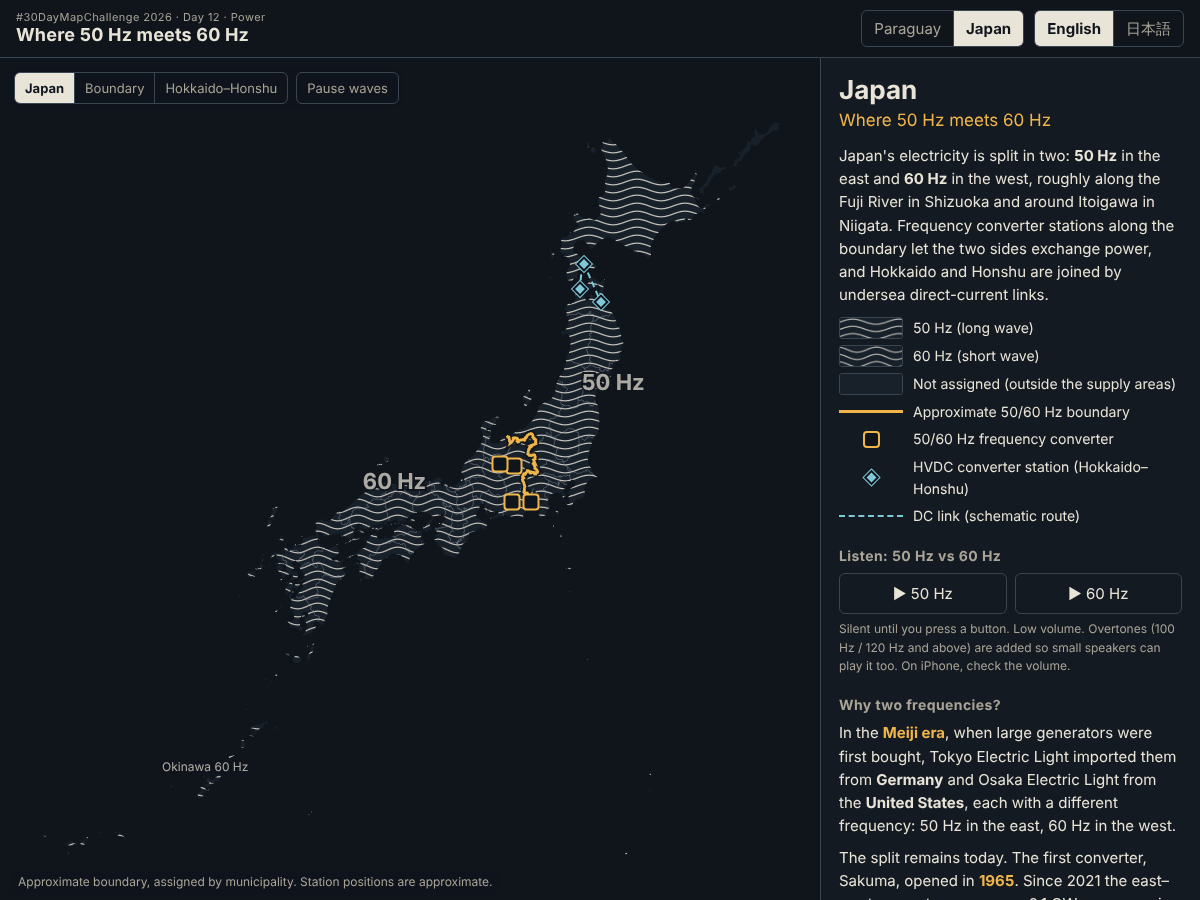
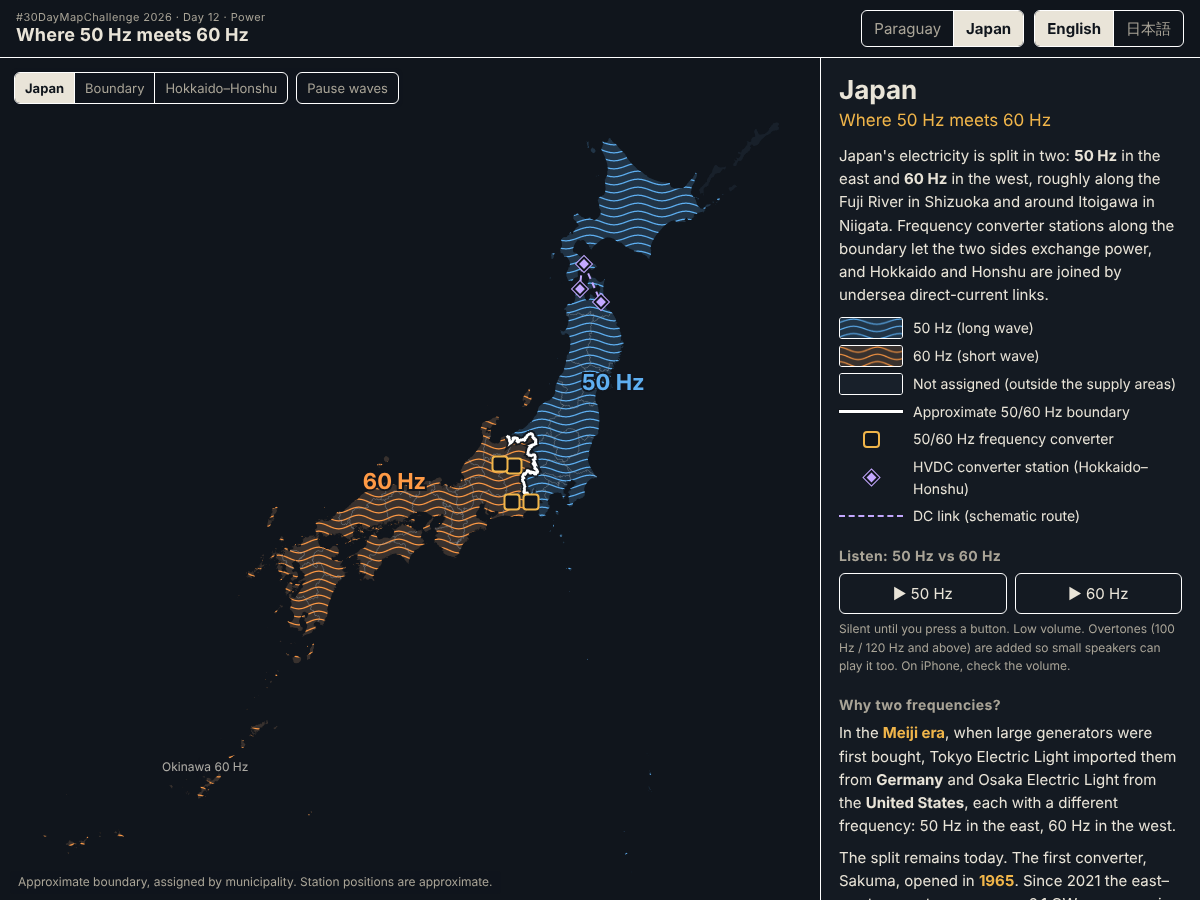
Colour 50 Hz and 60 Hz areas blue and orange

Changed region(s): [[0.2158, 0.1556, 0.5858, 0.7156], [0.6783, 0.3422, 0.7708, 0.4667]]

diff --git a/assets/app.js b/assets/app.js
@@ -22,9 +22,12 @@
     border: "rgba(160,170,182,0.55)",
     muni: "rgba(160,170,182,0.18)",
     accent: "#f0b54a",
-    dc: "#7fc8d8",
+    line: "#ffffff",
+    dc: "#c4a8ff",
+    wave: { 50: "#5fb0f2", 60: "#ff9a45" },
+    tint: { 50: "rgba(95,176,242,0.14)", 60: "rgba(255,154,69,0.14)" },
     water: "#0c1218",
-    river: "rgba(127,200,216,0.55)",
+    river: "rgba(180,192,204,0.45)",
     label: "rgba(233,228,216,0.72)",
     nodata: "rgba(160,170,182,0.35)"
   };
@@ -84,7 +87,7 @@
     c.height = Math.round(h * DPR);
     const g = c.getContext("2d");
     g.scale(c.width / lam, c.height / h);
-    g.strokeStyle = COLORS.ink;
+    g.strokeStyle = COLORS.wave[hz];
     g.lineWidth = WAVE.width;
     g.lineCap = "round";
     const y0 = WAVE.gap * offset + WAVE.gap / 2;
@@ -319,6 +322,10 @@
   }
 
   function paintGroup(g, s) {
+    if (g.hz !== "mixed") {
+      ctx.fillStyle = COLORS.tint[g.hz];
+      ctx.fill(g.path);
+    }
     if (g.hz === "mixed") {
       fillWaves(g.path, "50h", 50, s);
       fillWaves(g.path, "60h", 60, s);
@@ -330,7 +337,7 @@
     ctx.strokeStyle = "rgba(16,21,28,0.9)";
     ctx.lineWidth = 6;
     ctx.stroke(path);
-    ctx.strokeStyle = COLORS.accent;
+    ctx.strokeStyle = COLORS.line;
     ctx.lineWidth = 2.6;
     ctx.stroke(path);
   }
@@ -356,7 +363,7 @@
       label(name, c.at[0], c.at[1], { size: k >= 4 ? 14 : 12 });
       const p = projection(c.at);
       if (!p) return;
-      label(hz, ...projection.invert([p[0], p[1] + 14]), { size: 11, weight: 400 });
+      label(hz, ...projection.invert([p[0], p[1] + 14]), { size: 11, weight: 700, color: COLORS.wave[c.hz] || COLORS.label });
     });
   }
   function drawJapanLabels() {
@@ -549,6 +556,7 @@
       g.fillRect(0, 0, 64, 22);
       const hz = c.dataset.hz;
       if (!hz) return;
+      if (hz !== "mixed") { g.fillStyle = COLORS.tint[hz]; g.fillRect(0, 0, 64, 22); }
       const draw1 = (key, h) => {
         const tile = tiles[key];
         const phase = (s * WAVE.speed[h]) % WAVE.lambda[h];
@@ -565,16 +573,16 @@
     const cw = 28, ch = 34, gap = 4, labelH = 18, rowGap = 10;
     const w = 10 * cw + 9 * gap;
     const defs = `<defs>
-      <pattern id="pw50" width="${WAVE.lambda[50] / 2}" height="7" patternUnits="userSpaceOnUse">${wavePathSVG(WAVE.lambda[50] / 2, 7)}</pattern>
-      <pattern id="pw60" width="${WAVE.lambda[60] / 2}" height="7" patternUnits="userSpaceOnUse">${wavePathSVG(WAVE.lambda[60] / 2, 7)}</pattern>
+      <pattern id="pw50" width="${WAVE.lambda[50] / 2}" height="7" patternUnits="userSpaceOnUse">${wavePathSVG(WAVE.lambda[50] / 2, 7, COLORS.wave[50])}</pattern>
+      <pattern id="pw60" width="${WAVE.lambda[60] / 2}" height="7" patternUnits="userSpaceOnUse">${wavePathSVG(WAVE.lambda[60] / 2, 7, COLORS.wave[60])}</pattern>
     </defs>`;
     let body = "";
     [[50, u.left], [60, u.right]].forEach(([hz, txt], r) => {
       const y0 = r * (labelH + ch + rowGap);
-      body += `<text x="0" y="${y0 + 12}" font-size="12" fill="#e9e4d8">${esc(tx(txt))}</text>`;
+      body += `<text x="0" y="${y0 + 12}" font-size="12" font-weight="700" fill="${COLORS.wave[hz]}">${esc(tx(txt))}</text>`;
       for (let i = 0; i < 10; i++) {
         const x = i * (cw + gap);
-        body += `<rect x="${x}" y="${y0 + labelH}" width="${cw}" height="${ch}" rx="2" fill="#18202a" stroke="#5a6572"/>` +
+        body += `<rect x="${x}" y="${y0 + labelH}" width="${cw}" height="${ch}" rx="2" fill="${COLORS.tint[hz]}" stroke="${COLORS.wave[hz]}" stroke-opacity="0.6"/>` +
           `<rect x="${x + 1}" y="${y0 + labelH + 1}" width="${cw - 2}" height="${ch - 2}" fill="url(#pw${hz})"/>`;
       }
     });
@@ -582,13 +590,13 @@
     const svg = `<svg viewBox="0 0 ${w} ${h}" role="img" aria-label="${esc(tx(u.aria))}">${defs}${body}</svg>`;
     return `<h2>${esc(tx(u.title))}</h2><div class="units">${svg}<p class="cap">${tx(u.caption)}</p></div>`;
   }
-  function wavePathSVG(lam, h) {
+  function wavePathSVG(lam, h, color) {
     let d = "";
     for (let x = -1; x <= lam + 1; x += 0.5) {
       const y = h / 2 + 2 * Math.sin((2 * Math.PI * x) / lam);
       d += (d ? " L" : "M") + x.toFixed(2) + " " + y.toFixed(2);
     }
-    return `<path d="${d}" fill="none" stroke="#e9e4d8" stroke-width="0.9"/>`;
+    return `<path d="${d}" fill="none" stroke="${color}" stroke-width="1"/>`;
   }
 
   // ---------- sound ----------

diff --git a/assets/i18n.js b/assets/i18n.js
@@ -74,15 +74,15 @@ window.I18N = (() => {
   ];
 
   const japanLabels = [
-    { name: { en: "50 Hz", ja: "50Hz" }, at: [141.6, 38.4], size: 22, maxK: 2.2 },
-    { name: { en: "60 Hz", ja: "60Hz" }, at: [133.6, 35.6], size: 22, maxK: 2.2 },
+    { name: { en: "50 Hz", ja: "50Hz" }, at: [141.6, 38.4], size: 22, maxK: 2.2, color: "#5fb0f2" },
+    { name: { en: "60 Hz", ja: "60Hz" }, at: [133.6, 35.6], size: 22, maxK: 2.2, color: "#ff9a45" },
     { name: { en: "Okinawa 60 Hz", ja: "沖縄 60Hz" }, at: [127.8, 27.0], size: 12, weight: 400, maxK: 2.2 },
-    { name: { en: "Fuji River", ja: "富士川" }, at: [138.62, 35.36], size: 12, weight: 400, minK: 2.2, color: "#f0b54a" },
-    { name: { en: "Itoigawa", ja: "糸魚川" }, at: [137.86, 37.12], size: 12, weight: 400, minK: 2.2, color: "#f0b54a" },
+    { name: { en: "Fuji River", ja: "富士川" }, at: [138.62, 35.36], size: 12, weight: 400, minK: 2.2, color: "#ffffff" },
+    { name: { en: "Itoigawa", ja: "糸魚川" }, at: [137.86, 37.12], size: 12, weight: 400, minK: 2.2, color: "#ffffff" },
     { name: { en: "Sado 60 Hz", ja: "佐渡 60Hz" }, at: [138.38, 38.25], size: 12, weight: 400, minK: 2.2 },
-    { name: { en: "50 Hz", ja: "50Hz" }, at: [139.3, 36.35], size: 18, minK: 2.2, maxK: 8 },
-    { name: { en: "60 Hz", ja: "60Hz" }, at: [137.0, 35.25], size: 18, minK: 2.2, maxK: 8 },
-    { name: { en: "Tsugaru Strait", ja: "津軽海峡" }, at: [140.75, 41.42], size: 12, weight: 400, minK: 4, color: "#7fc8d8" }
+    { name: { en: "50 Hz", ja: "50Hz" }, at: [139.3, 36.35], size: 18, minK: 2.2, maxK: 8, color: "#5fb0f2" },
+    { name: { en: "60 Hz", ja: "60Hz" }, at: [137.0, 35.25], size: 18, minK: 2.2, maxK: 8, color: "#ff9a45" },
+    { name: { en: "Tsugaru Strait", ja: "津軽海峡" }, at: [140.75, 41.42], size: 12, weight: 400, minK: 4, color: "#c4a8ff" }
   ];
 
   const itaipuUnits = {

diff --git a/assets/style.css b/assets/style.css
@@ -5,7 +5,8 @@
   --ink-soft: #a9a497;
   --line: #3a4552;
   --accent: #f0b54a;
-  --dc: #7fc8d8;
+  --dc: #c4a8ff;
+  --line: #ffffff;
   --panel: #141a22;
   --font: "Helvetica Neue", Arial, "Hiragino Sans", "Noto Sans JP", "Yu Gothic", sans-serif;
   color-scheme: dark;
@@ -162,7 +163,7 @@ a { color: var(--accent); }
 .legend { display: grid; gap: 6px; margin-top: 10px; }
 .legend .row { display: flex; align-items: center; gap: 10px; font-size: 14px; }
 .legend canvas { width: 64px; height: 22px; border: 1px solid var(--line); border-radius: 3px; background: var(--land); flex: none; }
-.legend .sw-line { width: 64px; height: 0; border-top: 3px solid var(--accent); flex: none; }
+.legend .sw-line { width: 64px; height: 0; border-top: 3px solid var(--line); box-shadow: 0 0 0 1px #10151c; flex: none; }
 .legend .sw-dc { width: 64px; height: 0; border-top: 2px dashed var(--dc); flex: none; }
 .legend .sym-wrap { width: 64px; display: flex; justify-content: center; flex: none; }
 .legend .marker { position: static; transform: none; padding: 0; pointer-events: none; }

diff --git a/README.md b/README.md
@@ -10,11 +10,11 @@
 
 ## About
 
-**English** — Mains electricity runs at 50 Hz in some places and 60 Hz in others. This map shows two places where the two meet. In South America the frequency changes at national borders: Brazil, Colombia, Peru, Ecuador and Venezuela use 60 Hz; Paraguay, Argentina, Uruguay, Chile and Bolivia use 50 Hz. On the Paraná River, the Itaipu dam generates with 20 units: 10 at 50 Hz for Paraguay and 10 at 60 Hz for Brazil. In Japan, the east is 50 Hz and the west 60 Hz, a split that goes back to generators imported from Germany (Tokyo) and the United States (Osaka) in the Meiji era. Converter stations sit along the boundary, and Hokkaido and Honshu are linked by undersea DC lines. Areas are drawn as waves rather than colours: long waves for 50 Hz, short waves for 60 Hz.
+**English** — Mains electricity runs at 50 Hz in some places and 60 Hz in others. This map shows two places where the two meet. In South America the frequency changes at national borders: Brazil, Colombia, Peru, Ecuador and Venezuela use 60 Hz; Paraguay, Argentina, Uruguay, Chile and Bolivia use 50 Hz. On the Paraná River, the Itaipu dam generates with 20 units: 10 at 50 Hz for Paraguay and 10 at 60 Hz for Brazil. In Japan, the east is 50 Hz and the west 60 Hz, a split that goes back to generators imported from Germany (Tokyo) and the United States (Osaka) in the Meiji era. Converter stations sit along the boundary, and Hokkaido and Honshu are linked by undersea DC lines. Areas are drawn as moving waves: long blue waves for 50 Hz, short orange waves for 60 Hz.
 
-**Español** — La electricidad funciona a 50 Hz en unos lugares y a 60 Hz en otros. Este mapa muestra dos lugares donde se encuentran. En Sudamérica la frecuencia cambia en las fronteras: Brasil, Colombia, Perú, Ecuador y Venezuela usan 60 Hz; Paraguay, Argentina, Uruguay, Chile y Bolivia, 50 Hz. Sobre el río Paraná, la represa de Itaipu genera con 20 unidades: 10 a 50 Hz para Paraguay y 10 a 60 Hz para Brasil. En Japón, el este usa 50 Hz y el oeste 60 Hz, por los generadores que Tokio importó de Alemania y Osaka de Estados Unidos en la era Meiji. Las áreas se dibujan con ondas en lugar de colores: onda larga para 50 Hz y corta para 60 Hz.
+**Español** — La electricidad funciona a 50 Hz en unos lugares y a 60 Hz en otros. Este mapa muestra dos lugares donde se encuentran. En Sudamérica la frecuencia cambia en las fronteras: Brasil, Colombia, Perú, Ecuador y Venezuela usan 60 Hz; Paraguay, Argentina, Uruguay, Chile y Bolivia, 50 Hz. Sobre el río Paraná, la represa de Itaipu genera con 20 unidades: 10 a 50 Hz para Paraguay y 10 a 60 Hz para Brasil. En Japón, el este usa 50 Hz y el oeste 60 Hz, por los generadores que Tokio importó de Alemania y Osaka de Estados Unidos en la era Meiji. Las áreas se dibujan con ondas en movimiento: onda larga azul para 50 Hz y onda corta naranja para 60 Hz.
 
-**日本語** — 電気の周波数は、地域によって 50Hz と 60Hz に分かれています。この地図は、その二つが出会う場所を二つの地域で見せます。南米では国ごとに周波数が異なり、ブラジル、コロンビア、ペルー、エクアドル、ベネズエラは 60Hz、パラグアイ、アルゼンチン、ウルグアイ、チリ、ボリビアは 50Hz です。パラナ川のイタイプ・ダムでは、20基の発電機のうち10基がパラグアイ向けの 50Hz、10基がブラジル向けの 60Hz で発電しています。日本では東日本が 50Hz、西日本が 60Hz で、明治時代に東京がドイツから、大阪がアメリカから発電機を輸入したことに始まります。境目には周波数変換所が並び、北海道と本州は海底の直流送電線でつながっています。地図の塗りは色ではなく波線で表し、50Hz は長い波、60Hz は短い波です。
+**日本語** — 電気の周波数は、地域によって 50Hz と 60Hz に分かれています。この地図は、その二つが出会う場所を二つの地域で見せます。南米では国ごとに周波数が異なり、ブラジル、コロンビア、ペルー、エクアドル、ベネズエラは 60Hz、パラグアイ、アルゼンチン、ウルグアイ、チリ、ボリビアは 50Hz です。パラナ川のイタイプ・ダムでは、20基の発電機のうち10基がパラグアイ向けの 50Hz、10基がブラジル向けの 60Hz で発電しています。日本では東日本が 50Hz、西日本が 60Hz で、明治時代に東京がドイツから、大阪がアメリカから発電機を輸入したことに始まります。境目には周波数変換所が並び、北海道と本州は海底の直流送電線でつながっています。地図の塗りは動く波線で表し、50Hz は青の長い波、60Hz はオレンジの短い波です。
 
 ## How to use
 
